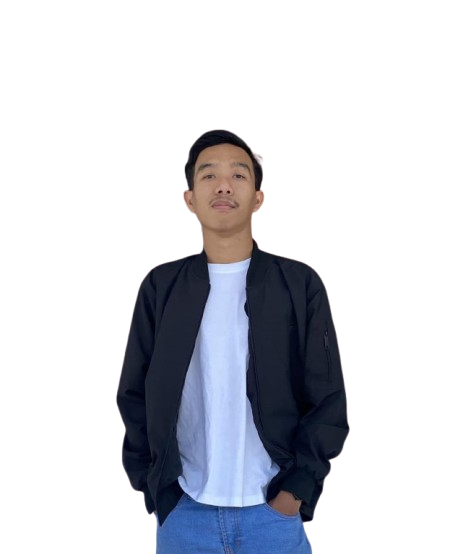
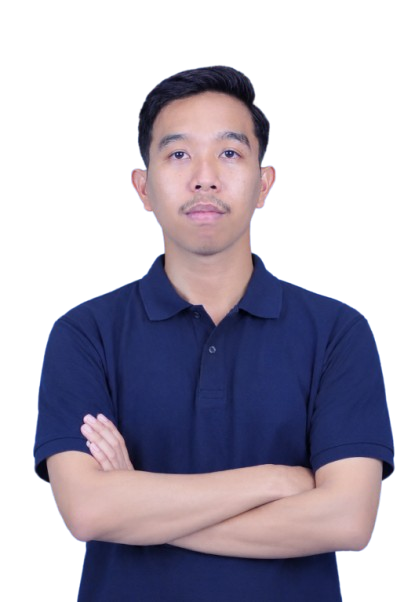
ubah tema website

diff --git a/src/pages/Home.css b/src/pages/Home.css
@@ -280,7 +280,7 @@
 .hero-portrait::before {
   position: absolute;
   z-index: 0;
-  inset: 13% 0 3% 10%;
+  inset: 13% 7% 3% 15%;
   background: var(--home-surface);
   box-shadow: 0 18px 40px rgb(0 0 0 / 20%);
   content: "";
@@ -295,35 +295,38 @@
 .hero-portrait img {
   position: absolute;
   z-index: 3;
-  bottom: -8%;
-  left: -6%;
-  width: 112%;
-  height: 116%;
+  bottom: 3%;
+  left: 7%;
+  width: 96%;
+  height: 92%;
   object-fit: contain;
   object-position: center bottom;
   filter: grayscale(1);
-  transform: translateZ(54px);
+  transform: translateZ(54px) scaleX(1.08);
+  transform-origin: center bottom;
 }
 
 .portrait-circle {
   position: absolute;
-  z-index: 1;
-  top: 4%;
-  left: 22%;
-  width: 82px;
+  z-index: 2;
+  top: 20%;
+  left: 24%;
+  width: clamp(54px, 22%, 82px);
   aspect-ratio: 1;
   border: 2px solid var(--home-green);
   border-radius: 50%;
-  transform: translateZ(36px);
+  transform: translateZ(24px);
 }
 
 .portrait-lines {
   position: absolute;
   z-index: 1;
-  top: 18%;
-  right: 5%;
-  width: 36%;
-  height: 30%;
+  top: 36%;
+  right: 10%;
+  width: 31%;
+  aspect-ratio: 1;
+  overflow: hidden;
+  border-radius: 50%;
   background: repeating-linear-gradient(
     115deg,
     transparent 0 11px,
@@ -335,14 +338,36 @@
 
 .portrait-outline {
   position: absolute;
-  z-index: 1;
+  z-index: 4;
   top: 42%;
   left: -34px;
-  width: 94px;
+  width: clamp(72px, 29%, 104px);
   aspect-ratio: 1;
-  border: 6px solid rgb(34 155 46 / 35%);
+  border: 5px solid rgb(34 155 46 / 28%);
+  filter: drop-shadow(0 0 8px rgb(34 155 46 / 30%)) blur(1px);
   transform: rotate(28deg);
-  translate: 0 0 10px;
+  translate: 0 0 70px;
+}
+
+.portrait-triangle {
+  position: absolute;
+  z-index: 1;
+  top: 13%;
+  right: 22%;
+  width: 24px;
+  aspect-ratio: 1;
+  background: rgb(34 155 46 / 34%);
+  clip-path: polygon(20% 0, 100% 82%, 0 100%);
+  filter: drop-shadow(0 0 5px rgb(34 155 46 / 30%));
+  transform: rotate(14deg);
+}
+
+.portrait-triangle::after {
+  position: absolute;
+  inset: 3px;
+  background: var(--home-surface);
+  clip-path: polygon(20% 0, 100% 82%, 0 100%);
+  content: "";
 }
 
 .about-portrait {
@@ -356,6 +381,7 @@
   position: absolute;
   z-index: 0;
   inset: 0;
+  background: var(--home-surface);
   border: 2px solid rgb(34 155 46 / 75%);
   border-radius: 50%;
   pointer-events: none;
@@ -470,8 +496,12 @@
 
   .portrait-outline {
     left: -22px;
-    width: 72px;
     border-width: 4px;
+  }
+
+  .portrait-triangle {
+    right: 18%;
+    width: 20px;
   }
 
 }

diff --git a/src/pages/Home.tsx b/src/pages/Home.tsx
@@ -200,6 +200,7 @@ export default function Home() {
             <span className="portrait-circle" aria-hidden="true" />
             <span className="portrait-lines" aria-hidden="true" />
             <span className="portrait-outline" aria-hidden="true" />
+            <span className="portrait-triangle" aria-hidden="true" />
             <img src="/profil.png" alt="Muhammad Zaky Novananda" />
           </div>
         </section>
